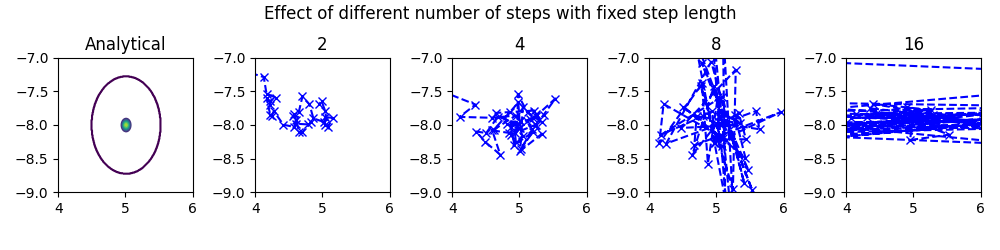
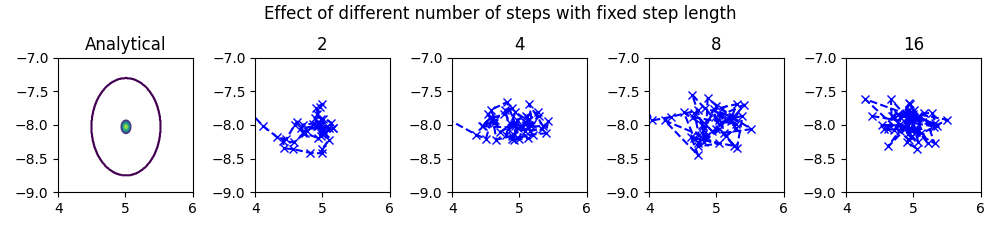
Update num_steps figures.

diff --git a/experiments/analysis_experiments.py b/experiments/analysis_experiments.py
@@ -10,7 +10,7 @@ import numpy as np
 import os
 
 folder = "figures/analysis_experiments"
-save = False
+save = True
 if save:
     os.makedirs(folder, exist_ok=True)
 
@@ -86,7 +86,7 @@ def num_steps_fixed_trajectorylength_experiment():
     axs[0].set_aspect(1)
 
     for i, ns in enumerate(num_steps):
-        sghmc_samples = calculate_sghmc(dataset, model, step_size=trajectory_length / ns, num_steps=ns, num_samples=50, num_burnin=0)['mean']
+        sghmc_samples = calculate_sghmc(dataset, model, step_size=trajectory_length / ns, num_steps=ns, num_samples=50, num_burnin=0,  resample_r_freq=25, friction=10)['mean']
         axs[i+1].title.set_text(f'{ns}')
         axs[i+1].plot(sghmc_samples[:, 0].numpy(), sghmc_samples[:, 1].numpy(), '--xb')
         axs[i+1].set_xlim(x_min, x_max)
@@ -119,7 +119,7 @@ def num_steps_fixed_steplength_experiment():
     axs[0].set_aspect(1)
 
     for i, ns in enumerate(num_steps):
-        sghmc_samples = calculate_sghmc(dataset, model, step_size=0.05, num_steps=ns, num_samples=50, num_burnin=0)['mean']
+        sghmc_samples = calculate_sghmc(dataset, model, step_size=0.05, num_steps=ns, num_samples=50, num_burnin=0,  resample_r_freq=25, friction=10)['mean']
         axs[i+1].title.set_text(f'{ns}')
         axs[i+1].plot(sghmc_samples[:, 0].numpy(), sghmc_samples[:, 1].numpy(), '--xb')
         axs[i+1].set_xlim(x_min, x_max)
@@ -196,4 +196,6 @@ def batchsize_experiment():
 
 if __name__ == "__main__":
     # step_size_experiment()
-    step_size_experiment()
+    # step_size_experiment()
+    num_steps_fixed_steplength_experiment()
+    num_steps_fixed_trajectorylength_experiment()
